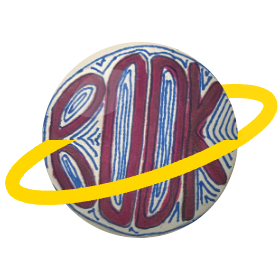
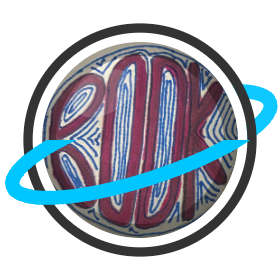
Book Coverz: medallion border like Fark, blue ring
Fark's white-then-shaded-ring look comes partly from its own photo's
plain background near the clipped edge, which book-coverz.png doesn't
have (its art fills edge to edge). Add an explicit opt-in border to
the shared photo() renderer -- art.border:true draws a white ring then
a shaded ring around the clipped photo, using the planet's own
light/shade colors, independent of the image content. Turn it on for
Book Coverz only, and change its Saturn-style ring to blue. Regenerate
the newsletter's static icon to match.

Changed region(s): [[0.0, 0.0571, 1.0, 0.9429]]

diff --git a/assets/planets.js b/assets/planets.js
@@ -48,7 +48,7 @@ function planetSVG(art, size) {
     size +
     '" viewBox="0 0 120 120" aria-hidden="true" focusable="false">' +
     defs(id, c, s, l) +
-    body(id, c, s, l, ring, a.photo, a.ring, a.vignette) +
+    body(id, c, s, l, ring, a.photo, a.ring, a.vignette, a.border) +
     curvedLabelSVG +
     "</svg>"
   );
@@ -142,7 +142,7 @@ function swirl(id, c, s, l) {
   return ball(id) + g + gloss;
 }
 
-function photo(id, c, s, l, ring, photoUrl, rawRing, showVignette) {
+function photo(id, c, s, l, ring, photoUrl, rawRing, showVignette, border) {
   if (!photoUrl) return sphere(id);
   const img =
     '<g clip-path="url(#' +
@@ -150,6 +150,16 @@ function photo(id, c, s, l, ring, photoUrl, rawRing, showVignette) {
     'c)"><image href="' +
     photoUrl +
     '" x="18" y="18" width="84" height="84" preserveAspectRatio="xMidYMid slice"/></g>';
+  // an explicit medallion edge (white ring, then a shaded ring outside it)
+  // for photos whose own background doesn't naturally read as one, like
+  // Fark's does -- opt in per-planet with art.border:true
+  const borderRings = border
+    ? '<circle cx="60" cy="60" r="44" fill="none" stroke="' +
+      l +
+      '" stroke-width="4"/><circle cx="60" cy="60" r="48" fill="none" stroke="' +
+      s +
+      '" stroke-width="4"/>'
+    : "";
   // a moderate radial shade over the photo so it reads as a lit ball, not a
   // flat cutout — white does nothing under multiply, only the dark side
   // darkens.
@@ -171,7 +181,7 @@ function photo(id, c, s, l, ring, photoUrl, rawRing, showVignette) {
   const softGloss =
     '<ellipse cx="44" cy="40" rx="14" ry="9" fill="#ffffff" opacity="0.16" transform="rotate(-28 44 40)"/>';
   // a ring is only drawn when this planet's config explicitly sets one
-  if (!rawRing) return img + shading + vignette + softGloss;
+  if (!rawRing) return img + shading + borderRings + vignette + softGloss;
   const ringBack =
     '<g transform="rotate(-18 60 60)"><ellipse cx="60" cy="62" rx="58" ry="15" fill="none" stroke="' +
     rawRing +
@@ -182,7 +192,7 @@ function photo(id, c, s, l, ring, photoUrl, rawRing, showVignette) {
     'f)"><g transform="rotate(-18 60 60)"><ellipse cx="60" cy="62" rx="58" ry="15" fill="none" stroke="' +
     rawRing +
     '" stroke-width="6"/></g></g>';
-  return ringBack + img + shading + vignette + softGloss + ringFront;
+  return ringBack + img + shading + borderRings + vignette + softGloss + ringFront;
 }
 
 function shorts(id, c, s, l, ring) {

diff --git a/config.js b/config.js
@@ -2573,7 +2573,7 @@ FIN`,
       x: 28.8,
       y: 21.6,
       size: 88,
-      art: { type: "photo", photo: "assets/images/book-coverz.png", color: "#ffffff", shade: "#333333", light: "#ffffff", ring: "#ffd700", vignette: false },
+      art: { type: "photo", photo: "assets/images/book-coverz.png", color: "#ffffff", shade: "#333333", light: "#ffffff", ring: "#00c6ff", border: true },
       page: {
         ribbon: "we judge a book only by how cool the cover is",
         oval: { fill: "#1f5c3a", text: "#ffd700", label: "Weekly Book Cover Recommendations" },
